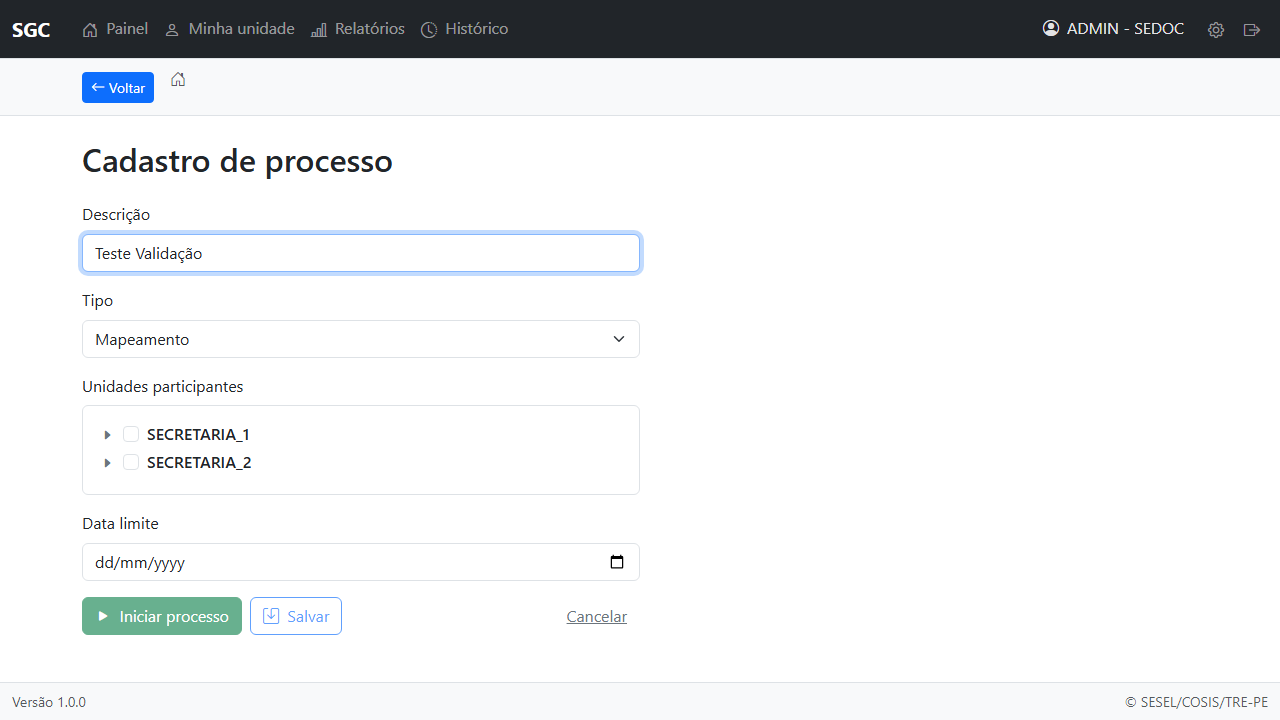
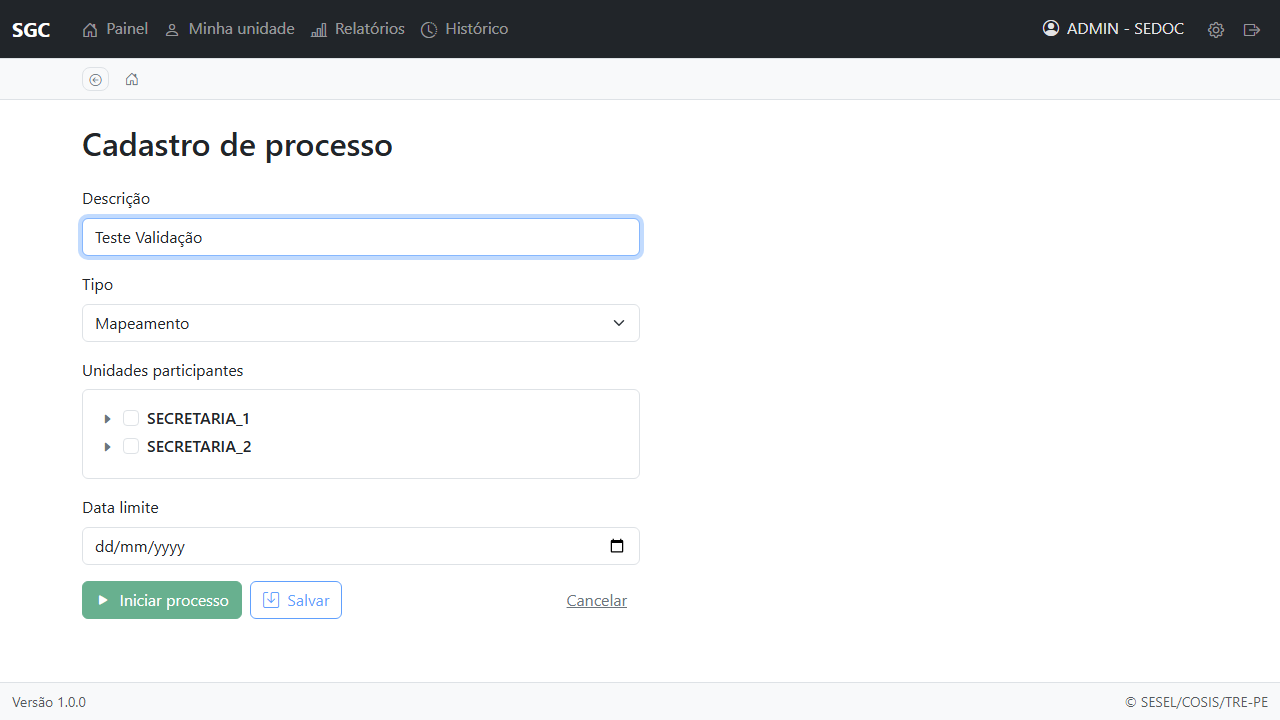
feat: update breadcrumb identifiers and enhance navigation logic in subprocess tests

diff --git a/reqs/breadcrumbs.md b/reqs/breadcrumbs.md
@@ -1,0 +1,162 @@
+# Especificação: Barra de Navegação (Breadcrumbs)
+
+## Visão Geral
+
+A barra de navegação exibe breadcrumbs contextuais que indicam a localização atual do usuário na hierarquia de
+navegação do sistema. Inclui também um botão de voltar para facilitar a navegação.
+
+## Componentes da Barra
+
+### Botão Voltar
+
+- Exibido em todas as páginas **exceto** Login e Painel
+- Ao clicar, navega para a página anterior do histórico (`router.back()`)
+- Estilo discreto (outline cinza, ícone pequeno)
+
+### Breadcrumbs
+
+- Exibidos em todas as páginas **exceto** Login e Painel
+- Sempre iniciam com o ícone de "casa" (🏠) que leva ao Painel
+- O último item é sempre o ativo (não clicável)
+- Separador: `›`
+
+## Estrutura por Tipo de Rota
+
+### Rotas de Processo
+
+**Rota**: `/processo/:codProcesso`  
+**Nome**: `Processo`
+
+| Perfil            | Breadcrumbs                          |
+|-------------------|--------------------------------------|
+| ADMIN / GESTOR    | 🏠 > Detalhes do processo            |
+| CHEFE / SERVIDOR  | 🏠                                   |
+
+**Regra**: Para CHEFE e SERVIDOR, o breadcrumb "Detalhes do processo" é omitido pois eles só veem processos da própria
+unidade.
+
+### Rotas de Subprocesso
+
+Rotas que pertencem a um subprocesso específico de uma unidade.
+
+| Rota                                                | Nome                    | Breadcrumbs (ADMIN/GESTOR)                                     |
+|-----------------------------------------------------|-------------------------|----------------------------------------------------------------|
+| `/processo/:codProcesso/:siglaUnidade`              | Subprocesso             | 🏠 > Detalhes do processo > [SIGLA]                            |
+| `/processo/:codProcesso/:siglaUnidade/mapa`         | SubprocessoMapa         | 🏠 > Detalhes do processo > [SIGLA] > Mapa de competências     |
+| `/processo/:codProcesso/:siglaUnidade/vis-mapa`     | SubprocessoVisMapa      | 🏠 > Detalhes do processo > [SIGLA] > Visualizar mapa          |
+| `/processo/:codProcesso/:siglaUnidade/cadastro`     | SubprocessoCadastro     | 🏠 > Detalhes do processo > [SIGLA] > Atividades e conhecimentos |
+| `/processo/:codProcesso/:siglaUnidade/vis-cadastro` | SubprocessoVisCadastro  | 🏠 > Detalhes do processo > [SIGLA] > Atividades e conhecimentos |
+
+Para CHEFE e SERVIDOR, o "Detalhes do processo" é omitido:
+
+| Rota                                                | Breadcrumbs (CHEFE/SERVIDOR)              |
+|-----------------------------------------------------|-------------------------------------------|
+| `/processo/:codProcesso/:siglaUnidade`              | 🏠 > [SIGLA]                              |
+| `/processo/:codProcesso/:siglaUnidade/vis-cadastro` | 🏠 > [SIGLA] > Atividades e conhecimentos |
+
+### Rotas de Unidade
+
+Rotas que exibem informações de uma unidade específica.
+
+| Rota                             | Nome                     | Breadcrumbs                               |
+|----------------------------------|--------------------------|-------------------------------------------|
+| `/unidade/:codUnidade`           | Unidade                  | 🏠 > [SIGLA] > Minha unidade              |
+| `/unidade/:codUnidade/mapa`      | Mapa                     | 🏠 > [SIGLA] > Mapa de competências       |
+| `/unidade/:codUnidade/atribuicao`| AtribuicaoTemporariaForm | 🏠 > [SIGLA] > Atribuição temporária      |
+
+**Fallback**: Se a sigla da unidade não estiver carregada no store, exibe "Unidade X" onde X é o código.
+
+### Outras Rotas
+
+Rotas que não se encaixam nas categorias acima usam a propriedade `meta.breadcrumb` definida no roteador. O breadcrumb
+pode ser:
+
+- Uma **string estática**: `meta: { breadcrumb: "Título da página" }`
+- Uma **função dinâmica**: `meta: { breadcrumb: (route) => route.params.id }`
+
+## Regras de Navegação
+
+### Links nos Breadcrumbs
+
+1. O **primeiro item** (🏠) sempre leva ao Painel
+2. **Itens intermediários** são clicáveis e levam à respectiva página
+3. O **último item** (ativo) não é clicável
+
+### Hierarquia de Links
+
+Para rotas de subprocesso, a hierarquia é:
+
+```
+🏠 (Painel) → Detalhes do processo (ProcessoView) → [SIGLA] (SubprocessoView) → [Página]
+```
+
+Para rotas de unidade, a hierarquia é:
+
+```
+🏠 (Painel) → [SIGLA] (UnidadeView) → [Página]
+```
+
+## Comportamento Visual
+
+### Estilos
+
+- Fonte: 0.85rem
+- Cor dos links: `#6c757d` (cinza)
+- Cor dos links hover: `#212529` (preto)
+- Cor do item ativo: `#212529` (preto)
+- Separador: `›` em cor `#adb5bd`
+
+### Botão Voltar
+
+- Altura: compatível com os breadcrumbs
+- Cor: cinza discreto
+- Hover: fundo cinza escuro, texto branco
+
+## Cenários
+
+### Cenário 1: ADMIN Visualizando Atividades
+
+1. ADMIN navega para `/processo/99/ASSESSORIA_12/vis-cadastro`
+2. Breadcrumbs exibidos: 🏠 > Detalhes do processo > ASSESSORIA_12 > Atividades e conhecimentos
+3. Clicar em "ASSESSORIA_12" leva para `/processo/99/ASSESSORIA_12`
+4. Clicar em "Detalhes do processo" leva para `/processo/99`
+
+### Cenário 2: CHEFE Visualizando Atividades
+
+1. CHEFE navega para `/processo/99/ASSESSORIA_12/vis-cadastro`
+2. Breadcrumbs exibidos: 🏠 > ASSESSORIA_12 > Atividades e conhecimentos
+3. "Detalhes do processo" não aparece (CHEFE só vê sua unidade)
+
+### Cenário 3: Visualizando Unidade
+
+1. Usuário navega para `/unidade/1`
+2. Store de unidades carrega a unidade com sigla "SEDOC"
+3. Breadcrumbs exibidos: 🏠 > SEDOC > Minha unidade
+4. Se a unidade não estivesse carregada, mostraria: 🏠 > Unidade 1 > Minha unidade
+
+### Cenário 4: Navegando para Atribuição Temporária
+
+1. ADMIN navega para `/unidade/1/atribuicao`
+2. Breadcrumbs exibidos: 🏠 > SEDOC > Atribuição temporária
+3. Clicar em "SEDOC" leva para `/unidade/1`
+
+## Implementação
+
+### Arquivos Envolvidos
+
+- `frontend/src/components/BarraNavegacao.vue` - Componente principal
+- `frontend/src/router/*.routes.ts` - Definições das rotas com `meta.breadcrumb`
+
+### Dependências
+
+- Store de Perfil (`usePerfilStore`) - Para determinar o perfil do usuário
+- Store de Unidades (`useUnidadesStore`) - Para obter a sigla da unidade
+
+### Testes
+
+Os testes estão em `frontend/src/components/__tests__/BarraNavegacao.spec.ts` e cobrem:
+
+- Visibilidade em diferentes páginas (login, painel, outras)
+- Renderização correta para rotas de processo, subprocesso e unidade
+- Lógica de perfil (omissão de "Detalhes do processo" para CHEFE/SERVIDOR)
+- Funcionalidade do botão voltar
